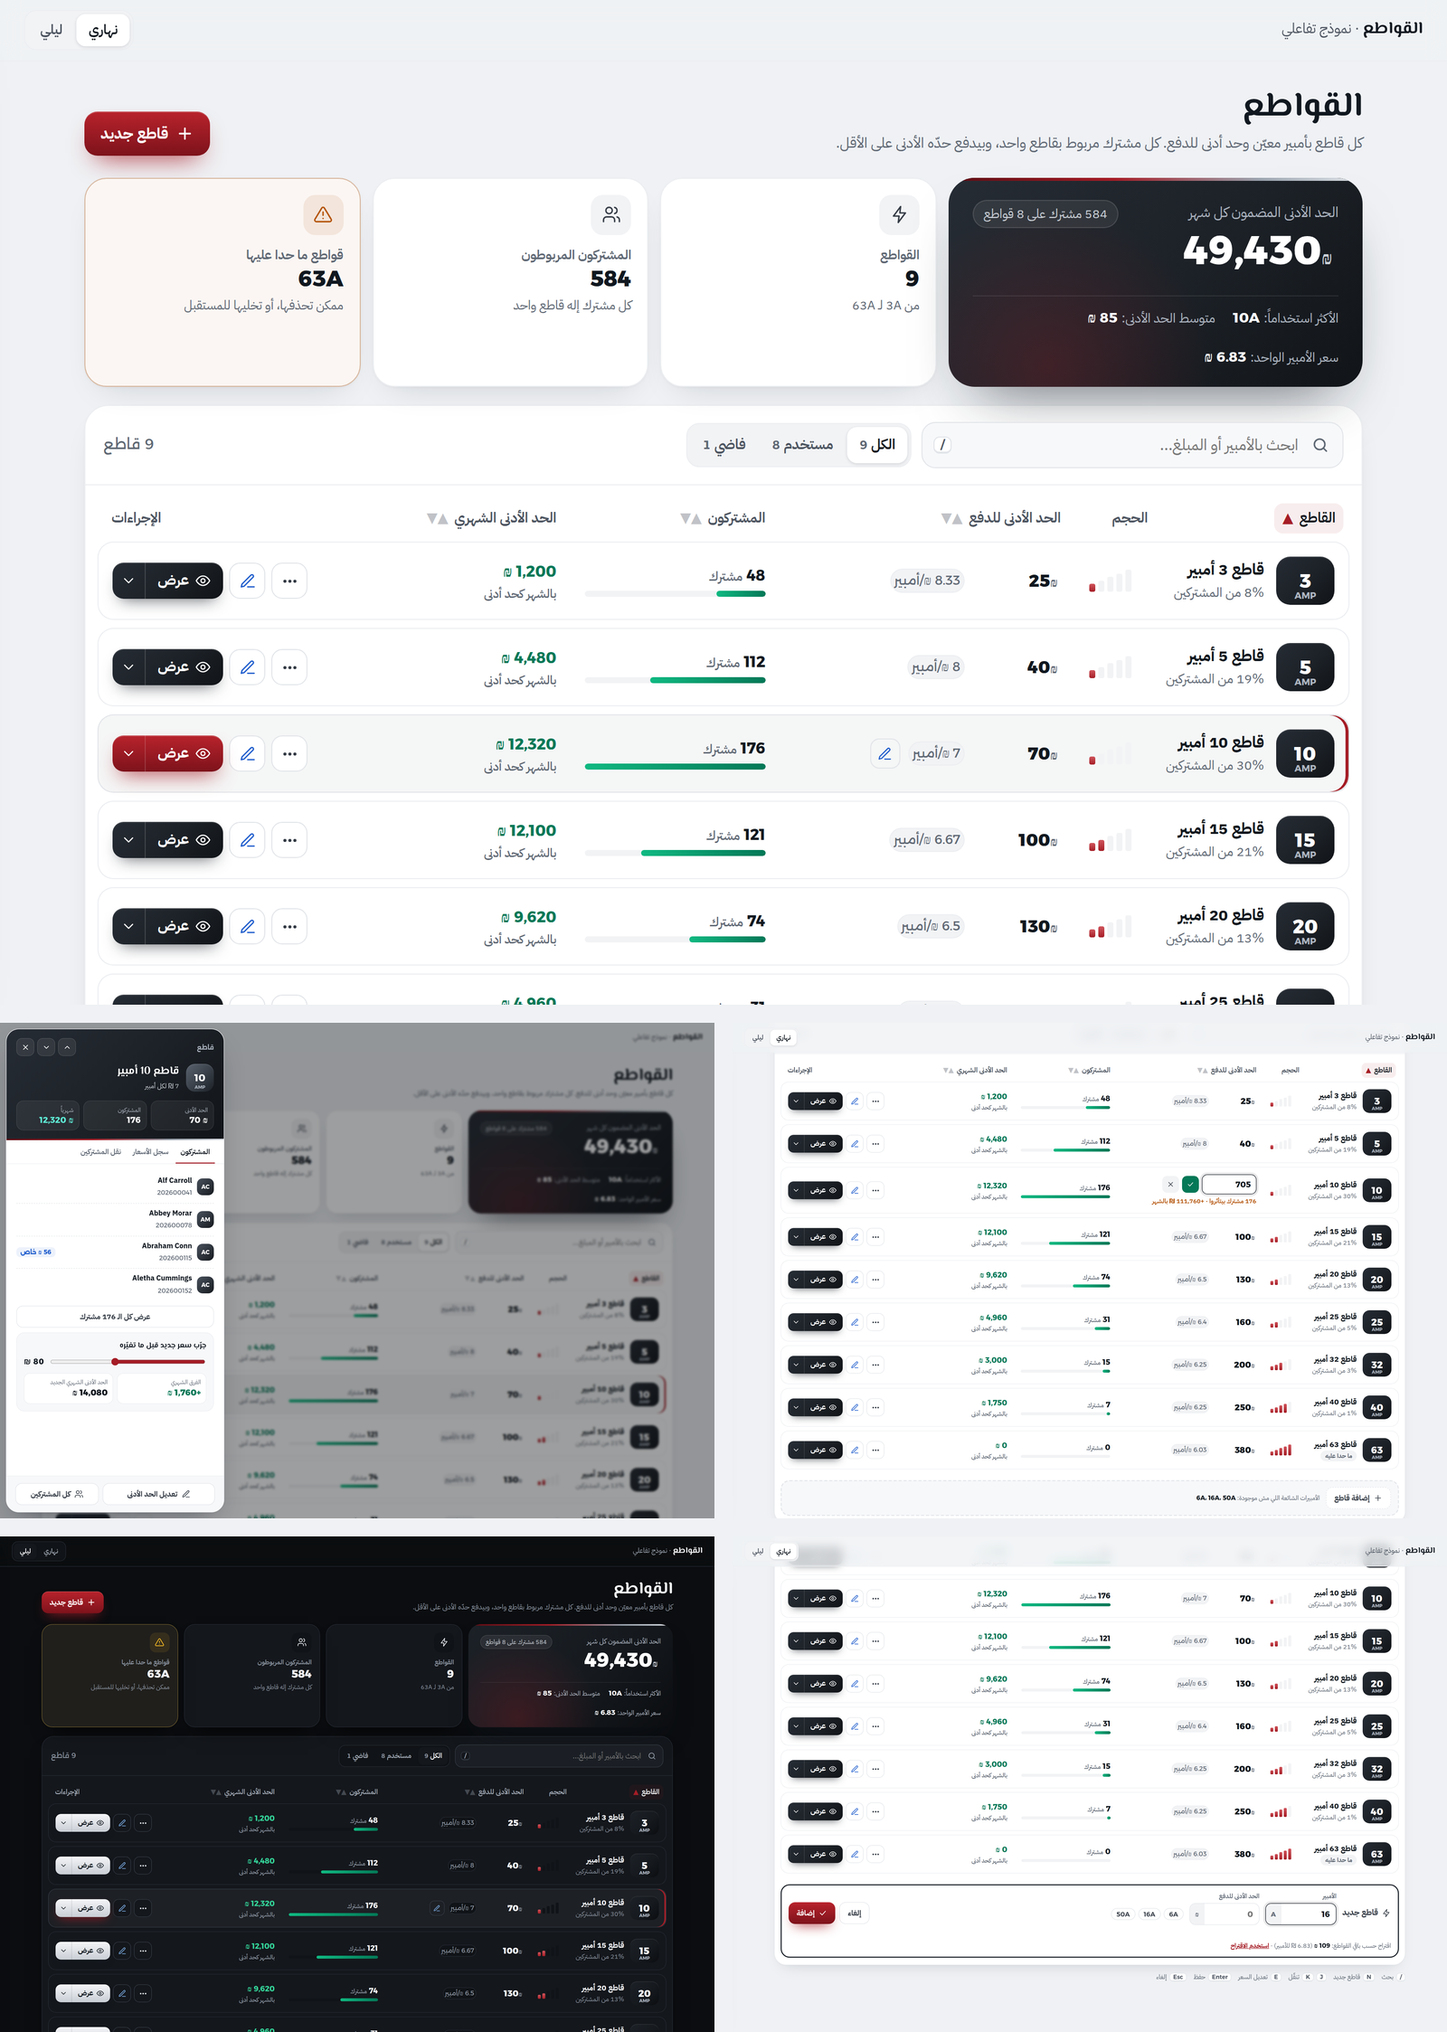
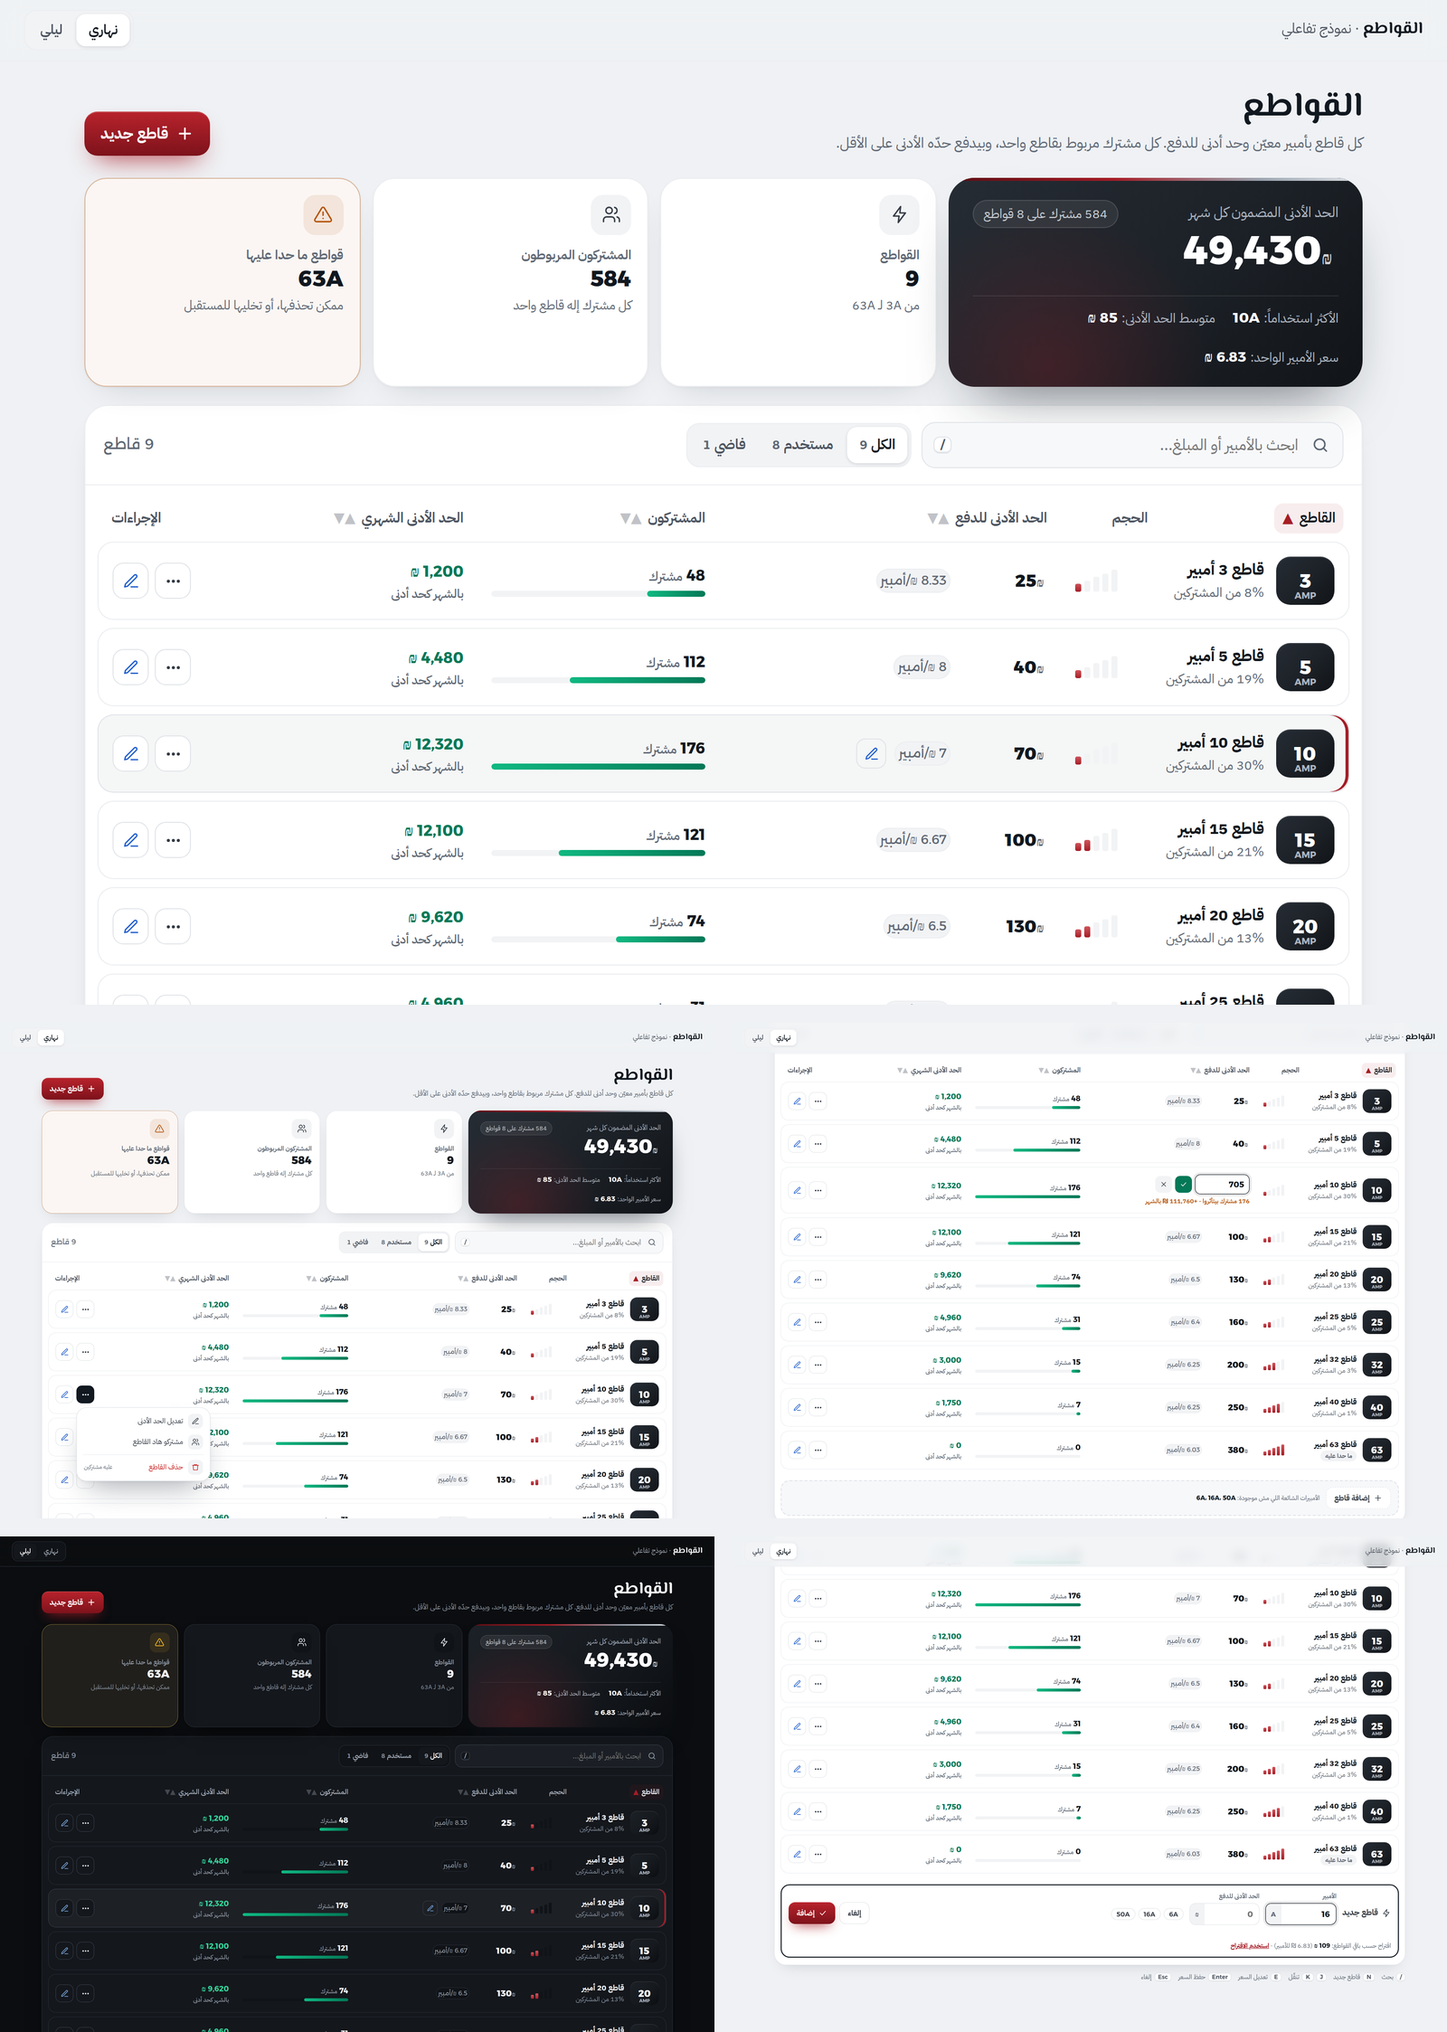
Breakers prototype: remove detail drawer
Claude-Session: https://claude.ai/code/session_01XCSA7vHgQhRJfaWcSo7nax

diff --git a/AF-PowerCollect-القواطع.html b/AF-PowerCollect-القواطع.html
@@ -353,7 +353,7 @@ tbody tr:hover .pencil,.pencil:focus-visible{opacity:1;border-color:var(--line);
 .sim .out small{display:block;font-size:12px;color:var(--faint)}.sim .out b{font:800 17px Alexandria}
 @media (max-width:1100px){.ov{grid-template-columns:1fr 1fr}.hero{grid-column:1/-1}.col-rev{display:none}}
 @media (max-width:760px){.ov{grid-template-columns:1fr}.dist{gap:5px}.col .n{font-size:11px}td.c-subs{grid-column:1/-1}td.c-price{grid-column:1/-1}td.col-rev,td.c-lvl{display:none}.addrow{margin:6px 0 12px}}
-</style>
+tbody tr{cursor:default}</style>
 </head>
 <body>
 <div class="demo-bar">
@@ -392,11 +392,9 @@ tbody tr:hover .pencil,.pencil:focus-visible{opacity:1;border-color:var(--line);
     </div>
     <div class="addrow" id="addrow"></div>
   </section>
-  <div class="hintbar"><span><kbd>/</kbd> بحث</span><span><kbd>N</kbd> قاطع جديد</span><span><kbd>J</kbd><kbd>K</kbd> تنقّل</span><span><kbd>E</kbd> تعديل السعر</span><span><kbd>Enter</kbd> حفظ</span><span><kbd>Esc</kbd> إلغاء</span></div>
+  <div class="hintbar"><span><kbd>/</kbd> بحث</span><span><kbd>N</kbd> قاطع جديد</span><span><kbd>J</kbd><kbd>K</kbd> تنقّل</span><span><kbd>E</kbd> تعديل السعر</span><span><kbd>Enter</kbd> حفظ السعر</span><span><kbd>Esc</kbd> إلغاء</span></div>
 </main>
 <div class="menu" id="menu" role="menu"></div>
-<div class="scrim" id="scrim"></div>
-<aside class="drawer" id="drawer" aria-label="تفاصيل القاطع"></aside>
 <div class="toast" id="toast"><span class="ok"><svg class="i" viewBox="0 0 24 24" fill="none" stroke="currentColor" stroke-width="2.6" stroke-linecap="round" stroke-linejoin="round"><path d="M5 12l5 5 9-10"/></svg></span><span id="tmsg"></span><button id="undo">تراجع</button></div>
 <div id="modal"></div>
 <script>
@@ -439,7 +437,7 @@ function render(){
     <td class="c-price">${ed?`<div class="pedit"><input id="pin" value="${b.min}" inputmode="decimal" aria-label="الحد الأدنى الجديد"><button class="ok" id="pok" aria-label="حفظ">${ic(I.check)}</button><button class="no" id="pno" aria-label="إلغاء">${ic(I.x)}</button></div><span class="impact" id="pimp"></span>`:`<div class="price"><span class="v num">${f2(b.min)}<small>₪</small></span><span class="per">${f2(b.min/b.amp)} ₪/أمبير</span><button class="pencil" data-pe aria-label="تعديل السعر">${ic(I.pen)}</button></div>`}</td>
     <td class="c-subs"><div class="subsn"><b>${b.subs} <span>مشترك</span></b><span class="m"><i style="width:${b.subs/mx*100}%"></i></span></div></td>
     <td class="col-rev"><span class="rev num">${f0(b.subs*b.min)} ₪<small>بالشهر كحد أدنى</small></span></td>
-    <td class="c-act"><div class="ra"><button class="ib" data-more aria-label="إجراءات أخرى">${ic(I.more)}</button><button class="ib ed" data-pe aria-label="تعديل السعر">${ic(I.pen)}</button><span class="split"><button data-view>${ic(I.eye)}عرض</button><button data-more aria-label="إجراءات سريعة">${ic(I.down)}</button></span></div></td></tr>`}).join('');
+    <td class="c-act"><div class="ra"><button class="ib" data-more aria-label="إجراءات أخرى">${ic(I.more)}</button><button class="ib ed" data-pe aria-label="تعديل السعر">${ic(I.pen)}</button></div></td></tr>`}).join('');
   $('#empty').hidden=!!view.length;$('#count').textContent=view.length+' قاطع';
   $$('th button[data-k]').forEach(b=>{if(b.dataset.k===S.sort.k){b.dataset.dir=S.sort.dir;b.querySelector('.ar').textContent=S.sort.dir>0?'▲':'▼'}else{delete b.dataset.dir;b.querySelector('.ar').textContent='▲▼'}});
   $('#clear').hidden=!(S.q||S.use!=='all');
@@ -480,7 +478,7 @@ function addRow(){
 $('#rows').addEventListener('click',e=>{const tr=e.target.closest('tr');if(!tr||e.target.closest('.pedit'))return;const b=B.find(x=>x.id==tr.dataset.id);
   if(e.target.closest('[data-pe]')){S.edit=b.id;render();return}
   const m=e.target.closest('[data-more]');if(m){e.stopPropagation();openMenu(m,b);return}
-  openDrawer(b)});
+});
 $('#q').oninput=e=>{S.q=e.target.value.trim();render()};
 $('#clear').onclick=()=>{S.q='';S.use='all';$('#q').value='';render()};
 $$('th button[data-k]').forEach(b=>b.onclick=()=>{const k=b.dataset.k;S.sort=S.sort.k===k?{k,dir:-S.sort.dir}:{k,dir:k==='amp'?1:-1};render()});
@@ -488,39 +486,15 @@ $('#newBtn').onclick=()=>{S.adding=true;render();$('#addrow').scrollIntoView({bl
 document.addEventListener('click',e=>{if(!e.target.closest('#menu')&&!e.target.closest('[data-more]'))closeMenu()});
 let mBtn=null;
 function openMenu(btn,b){if(mBtn===btn){closeMenu();return}closeMenu();mBtn=btn;btn.classList.add('on');
-  const it=[['pen','تعديل الحد الأدنى'],['users','مشتركو هاد القاطع'],['move','نقل مشتركين لقاطع ثاني'],['history','سجل الأسعار'],null,['trash','حذف القاطع','dg']];
+  const it=[['pen','تعديل الحد الأدنى'],['users','مشتركو هاد القاطع'],null,['trash','حذف القاطع','dg']];
   const m=$('#menu');m.style.width='270px';m.innerHTML=`<div class="mb" style="padding:6px">`+it.map(x=>x?`<div class="mi" data-a="${x[1]}" style="${x[2]?'color:var(--danger)':''}"><span class="mic">${ic(I[x[0]])}</span><span class="t">${x[1]}</span>${x[2]&&b.subs?'<span style="font-size:11.5px;color:var(--faint)">عليه مشتركين</span>':''}</div>`:'<div style="height:1px;background:var(--line2);margin:4px 6px"></div>').join('')+'</div>';
   $$('#menu .mi').forEach(el=>el.onclick=()=>{closeMenu();const a=el.dataset.a;
     if(a==='تعديل الحد الأدنى'){S.edit=b.id;render()}
-    else if(a==='حذف القاطع'){if(b.subs)confirmBox('ما بتقدر تحذفه هلأ',`في <b>${b.subs} مشترك</b> مربوطين بقاطع ${b.amp}A. انقلهم لقاطع ثاني أول، وبعدين احذفه.`,'نقل المشتركين',()=>openDrawer(b,'move'),true);else confirmBox(`حذف قاطع ${b.amp}A`,'ما حدا مربوط بهاد القاطع، فحذفه آمن.','حذف',()=>{const idx=B.indexOf(b);B.splice(idx,1);render();toast(`انحذف قاطع ${b.amp}A`,()=>{B.splice(idx,0,b);render()})})}
-    else if(a==='سجل الأسعار')openDrawer(b,'hist');else if(a==='نقل مشتركين لقاطع ثاني')openDrawer(b,'move');else openDrawer(b)});
+    else if(a==='حذف القاطع'){if(b.subs)confirmBox('ما بتقدر تحذفه هلأ',`في <b>${b.subs} مشترك</b> مربوطين بقاطع ${b.amp}A. غيّر قاطعهم من صفحة المشتركين أول، وبعدين احذفه.`,'فتح المشتركين',()=>toast('بيفتح جدول المشتركين مفلتر على قاطع '+b.amp+'A'),true);else confirmBox(`حذف قاطع ${b.amp}A`,'ما حدا مربوط بهاد القاطع، فحذفه آمن.','حذف',()=>{const idx=B.indexOf(b);B.splice(idx,1);render();toast(`انحذف قاطع ${b.amp}A`,()=>{B.splice(idx,0,b);render()})})}
+    else toast('بيفتح جدول المشتركين مفلتر على قاطع '+b.amp+'A')});
   const r=btn.getBoundingClientRect();m.classList.add('open');const h=m.offsetHeight;let top=r.bottom+8;if(top+h>innerHeight-10)top=Math.max(10,r.top-h-8);
   m.style.top=top+'px';m.style.left=Math.max(10,Math.min(r.left,innerWidth-280))+'px'}
 function closeMenu(){$('#menu').classList.remove('open');mBtn?.classList.remove('on');mBtn=null}
-let dIdx=-1;
-function openDrawer(b,tab='subs'){closeMenu();dIdx=view.indexOf(b);
-  let body='';
-  if(tab==='subs'){body=b.subs?`<div class="sublist">${NAMES.slice(0,Math.min(4,b.subs)).map((n,i)=>`<div class="s"><span class="av">${ini(n)}</span><div><b>${n}</b><small>${202600041+i*37}</small></div>${i===2?`<span class="mc" title="حد أدنى خاص بهاد المشترك">${f0(b.min*.8)} ₪ خاص</span>`:''}</div>`).join('')}</div>${b.subs>4?`<button class="btn" style="width:100%;justify-content:center;margin-top:10px">عرض كل الـ ${b.subs} مشترك</button>`:''}`:'<div class="empty" style="padding:30px 10px"><b>ما حدا مربوط</b>لما تضيف مشترك وتختار هاد القاطع، بيطلع هون.</div>'}
-  else if(tab==='hist'){body=`<div class="tl">${b.hist.map(([v,d,w],i)=>`<div><span class="d ${i?'':'pay'}">${ic(I.cash)}</span><span><b>${f2(v)} ₪</b><small>${d} · ${w}</small></span><span class="amt">${i?'':'الحالي'}</span></div>`).join('')}</div>`}
-  else{const others=sorted().filter(x=>x.id!==b.id);body=`<p style="margin:0 0 10px;color:var(--muted);font-size:14.5px">اختار القاطع الجديد للـ <b>${b.subs}</b> مشترك:</p><div class="sublist">${others.map(x=>`<div class="s" style="cursor:pointer" data-to="${x.id}"><span class="av" style="background:var(--hero)">${x.amp}</span><div><b>قاطع ${x.amp}A</b><small>${f2(x.min)} ₪ · ${x.subs} مشترك</small></div><span class="mc" style="color:${x.min>b.min?'var(--danger)':'var(--success)'};background:${x.min>b.min?'var(--danger-t)':'var(--success-t)'}">${x.min>b.min?'+':'−'}${f0(Math.abs(x.min-b.min))} ₪</span></div>`).join('')}</div>`}
-  $('#drawer').innerHTML=`<div class="dhero"><div class="dtop"><small>قاطع</small><button class="ib" id="dPrev" aria-label="السابق">${ic(I.up)}</button><button class="ib" id="dNext" aria-label="التالي">${ic(I.down)}</button><button class="ib" id="dClose" aria-label="إغلاق">${ic(I.x)}</button></div>
-    <div class="dwho"><span class="av" style="font-size:20px">${b.amp}<small style="position:absolute;bottom:4px;font:700 9px Alexandria;color:#aeb6c1">AMP</small></span><div><b>قاطع ${b.amp} أمبير</b><small>${f2(b.min/b.amp)} ₪ لكل أمبير</small></div></div>
-    <div class="dk"><div><small>الحد الأدنى</small><b>${f2(b.min)} ₪</b></div><div><small>المشتركون</small><b>${b.subs}</b></div><div><small>شهرياً</small><b style="color:#5eead4">${f0(b.subs*b.min)} ₪</b></div></div></div>
-  <div class="dtabs" role="tablist">${[['subs','المشتركون'],['hist','سجل الأسعار'],['move','نقل المشتركين']].map(([k,n])=>`<button role="tab" data-tab="${k}" aria-selected="${k===tab}">${n}</button>`).join('')}</div>
-  <div class="dbody">${body}
-   ${tab==='subs'&&b.subs?`<div class="sim"><h4>جرّب سعر جديد قبل ما تغيّره</h4><div class="row"><input type="range" id="simR" min="${Math.round(b.min*.5)}" max="${Math.round(b.min*1.6)}" value="${b.min}"><b class="num" id="simV">${b.min} ₪</b></div><div class="out"><div><small>الفرق الشهري</small><b id="simD">0 ₪</b></div><div><small>الحد الأدنى الشهري الجديد</small><b id="simT">${f0(b.min*b.subs)} ₪</b></div></div></div>`:''}</div>
-  <div class="dfoot"><button class="btn" id="dEdit" style="flex:1.4;justify-content:center">${ic(I.pen)}تعديل الحد الأدنى</button><button class="btn" id="dSubs">${ic(I.users)}كل المشتركين</button></div>`;
-  $('#drawer').classList.add('on');$('#scrim').classList.add('on');
-  $('#dClose').onclick=closeDrawer;$('#dPrev').onclick=()=>step(-1);$('#dNext').onclick=()=>step(1);
-  $$('.dtabs button').forEach(x=>x.onclick=()=>openDrawer(b,x.dataset.tab));
-  $('#dEdit').onclick=()=>{closeDrawer();S.edit=b.id;render()};$('#dSubs').onclick=()=>toast('بيفتح جدول المشتركين مفلتر على '+b.amp+'A');
-  const r=$('#simR');r&&(r.oninput=()=>{const v=+r.value;$('#simV').textContent=v+' ₪';const d=(v-b.min)*b.subs;$('#simD').textContent=(d>=0?'+':'−')+f0(Math.abs(d))+' ₪';$('#simD').style.color=d>0?'var(--success)':d<0?'var(--danger)':'';$('#simT').textContent=f0(v*b.subs)+' ₪'});
-  $$('[data-to]').forEach(el=>el.onclick=()=>{const to=B.find(x=>x.id==el.dataset.to),n=b.subs;confirmBox(`نقل ${n} مشترك`,`من قاطع ${b.amp}A لقاطع ${to.amp}A. الحد الأدنى إلهم بيصير ${f2(to.min)} ₪.`,'نقل',()=>{to.subs+=n;b.subs=0;closeDrawer();render();toast(`انتقل ${n} مشترك لقاطع ${to.amp}A`,()=>{b.subs=n;to.subs-=n;render()})})});
-  S.kb=dIdx;$$('#rows tr').forEach((t,i)=>t.classList.toggle('kb',i===dIdx));
-}
-function step(n){const v=view[dIdx+n];if(v)openDrawer(v)}
-function closeDrawer(){$('#drawer').classList.remove('on');$('#scrim').classList.remove('on')}
-$('#scrim').onclick=closeDrawer;
 function confirmBox(title,msg,okT,ok,warn){
   $('#modal').innerHTML=`<div style="position:fixed;inset:0;z-index:60;display:grid;place-items:center;padding:16px;background:#0b0d1066;backdrop-filter:blur(3px)" id="mBg"><div style="width:min(440px,100%);background:var(--surface);border-radius:24px;box-shadow:var(--pop);overflow:hidden"><div style="padding:20px 20px 8px;display:flex;gap:12px"><span style="width:44px;height:44px;border-radius:14px;display:grid;place-items:center;background:var(--warn-t);color:var(--warn);flex:none">${ic(I.warn)}</span><div><b style="display:block;font:700 18px 'El Messiri',serif">${title}</b><p style="margin:4px 0 0;color:var(--muted);font-size:14.5px">${msg}</p></div></div><div style="display:flex;gap:8px;justify-content:flex-end;padding:14px 20px;background:var(--raised);border-top:1px solid var(--line2);margin-top:12px"><button class="btn" id="mNo">إلغاء</button><button class="btn pr" id="mOk">${okT}</button></div></div></div>`;
   const close=()=>$('#modal').innerHTML='';$('#mOk').onclick=()=>{close();ok()};$('#mNo').onclick=close;$('#mBg').onclick=e=>{if(e.target.id==='mBg')close()};$('#mOk').focus()}
@@ -528,14 +502,13 @@ let undoFn=null;
 function toast(m,undo){const t=$('#toast');$('#tmsg').textContent=m;undoFn=undo||null;$('#undo').hidden=!undo;t.classList.add('on');clearTimeout(t._h);t._h=setTimeout(()=>t.classList.remove('on'),5000)}
 $('#undo').onclick=()=>{undoFn&&undoFn();$('#toast').classList.remove('on')};
 document.addEventListener('keydown',e=>{
-  if(e.key==='Escape'){if($('#modal').innerHTML){$('#modal').innerHTML='';return}if($('#menu').classList.contains('open'))closeMenu();else if($('#drawer').classList.contains('on'))closeDrawer();return}
+  if(e.key==='Escape'){if($('#modal').innerHTML){$('#modal').innerHTML='';return}if($('#menu').classList.contains('open'))closeMenu();return}
   if(['INPUT','TEXTAREA'].includes(document.activeElement.tagName))return;
   if(e.key==='/'){e.preventDefault();$('#q').focus();return}
   if(e.key==='n'){e.preventDefault();$('#newBtn').click();return}
   const dn=e.key==='j'||e.key==='ArrowDown',up=e.key==='k'||e.key==='ArrowUp';
-  if(dn||up){e.preventDefault();if($('#drawer').classList.contains('on')){step(dn?1:-1);return}S.kb=Math.max(0,Math.min(view.length-1,S.kb+(dn?1:-1)));$$('#rows tr').forEach((t,i)=>t.classList.toggle('kb',i===S.kb))}
+  if(dn||up){e.preventDefault();S.kb=Math.max(0,Math.min(view.length-1,S.kb+(dn?1:-1)));$$('#rows tr').forEach((t,i)=>t.classList.toggle('kb',i===S.kb))}
   if(e.key==='e'&&view[S.kb]){S.edit=view[S.kb].id;render()}
-  if(e.key==='Enter'&&view[S.kb])openDrawer(view[S.kb]);
 });
 window.addEventListener('scroll',closeMenu,{passive:true});
 $$('.seg button').forEach(b=>b.onclick=()=>{$$('.seg button').forEach(x=>x.setAttribute('aria-pressed',x===b));document.documentElement.dataset.theme=b.dataset.theme});
